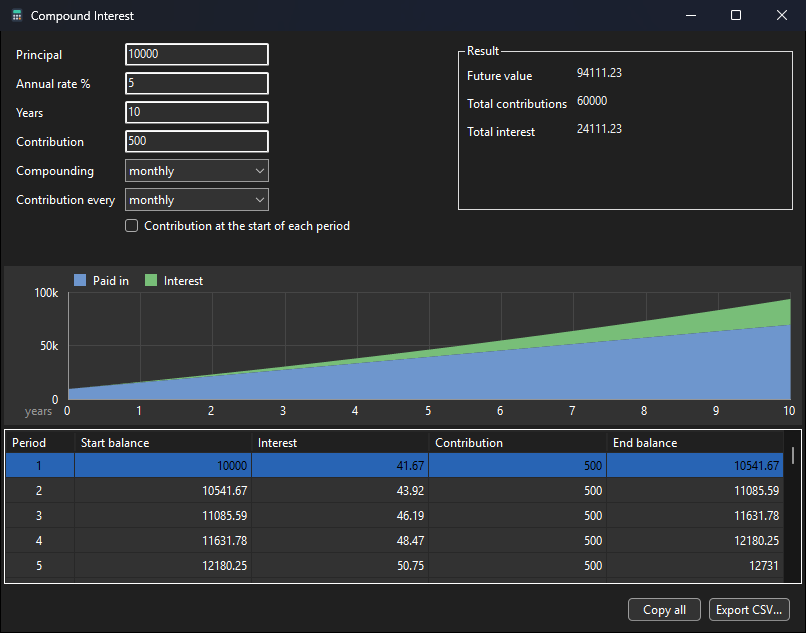
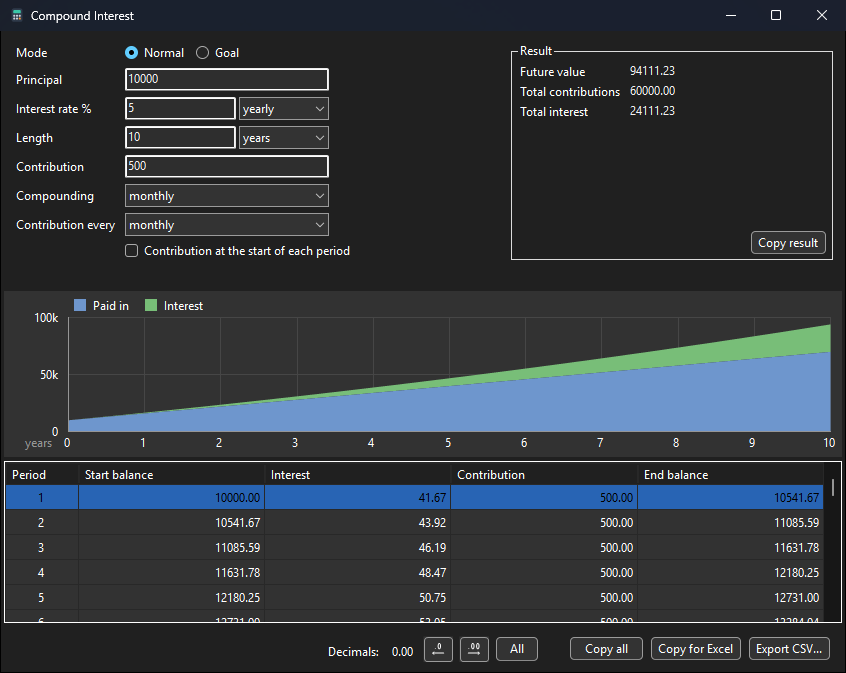
Help: Compound units, Goal, decimals, Copy result, Copy for Excel

diff --git a/help/09-finance.md b/help/09-finance.md
@@ -35,21 +35,69 @@ without formulas.
 
 ![The Compound Interest window](img/compound.light.png)
 
-- Fill in Principal, Interest rate %, Length and, if you add money
-  regularly, Contribution, Contribution every, and whether it comes at
-  the start of each period.
-- Compounding: yearly, quarterly, monthly, daily or continuous.
+- **Normal** works out what the money grows to. Fill in Principal,
+  Interest rate %, Length and, if you add money regularly,
+  Contribution, Contribution every, and whether it comes at the start
+  of each period. Each box takes any expression, such as `120000/12`;
+  one SoftCalc cannot read says why beside it.
+- Compounding and Contribution every: yearly, quarterly, monthly,
+  weekly or daily (compounding also continuous).
 - The rate is per year, month, week or day, and the length is in years,
   months, weeks or days (the graph's x axis follows it). A year is 365
-  days, a month a twelfth of it. Compounded less often than the rate's
-  unit, the rate compounds: 0.1% a day, yearly, is 1.001^365 - 1 a year,
-  not 36.5%. A part period is cut: 100 days, monthly, is 3 months.
-- The result updates as you type: future value, total contributions,
-  total interest, a growth graph and a table by period.
-- Copy all and Export CSV... take the table (the name carries the date
-  and time, such as `SoftCalc-compound-2026-11-20-1530.csv`); Ctrl+C
-  copies the selected rows.
+  days, a month a twelfth of it, a week 7 days. Compounded less often
+  than the rate's unit, the rate compounds: 0.1% a day, yearly, is
+  1.001^365 - 1 a year, not 36.5%. A part period is cut: 100 days,
+  monthly, is 3 months.
+- The result updates as you type: the totals, a growth graph and a
+  table by period. Drag the line between the graph and the table to
+  share the height.
+- **Decimals** sets the places of the table, the totals and a worked-out
+  value, for this window only: fewer, more (from All both start at 2),
+  or All. It shows as a sample, `0.00`, and as a number past 5.
+- **Copy result** copies the Result box's lines; **Copy all** and
+  **Export CSV...** the table (the name carries the date and time, such
+  as `SoftCalc-compound-2026-11-20-1530.csv`); Ctrl+C the selected rows.
+- **Copy for Excel** copies it all as a sheet: paste it at A1 of an
+  empty sheet (Excel, OnlyOffice, Google Sheets; LibreOffice asks, tick
+  Evaluate formulas). The inputs, the totals and every row are
+  formulas, so changing an input there works it out again. The rows
+  stay as many as here, and the cells keep the General format. A
+  computer set to a decimal comma reads the formulas wrong.
+- A long table fills in the background, so the window opens at once.
 - The window remembers what you typed last time.
+
+### Goal
+
+**Goal** takes four of Target, Principal, Interest rate, Length and
+Contribution and works out the fifth: the one set longest ago. Typing
+in a field, or changing its unit, sets it; typing in the worked-out one
+sets it too, and the next oldest is worked out instead. The order is
+kept for next time.
+
+```
+Target 10000000, Interest rate 0.5 % monthly, Length 20 years,
+Contribution 15000 a month: Principal is worked out
+then Principal 50000: Target is worked out (set longest ago)
+then Target 10000000: Length is worked out
+```
+
+- The worked-out field is in bold with `= result` beside it; the Result
+  box lists it first, then the others from the one set last to the one
+  set longest ago, then the totals.
+- The rate's unit is the compounding: 0.5 % monthly compounds each
+  month, so there is no Compounding field.
+- A worked-out length may end in a part period: 1000 at 10% a year to
+  2000 takes 7.27 years, shown also as `7 y 3 m 8 d`, and the table's
+  last row is `8 (0.2725)`, interest for that share of a year. A length
+  you give may end in a part period too.
+- A worked-out value shows in the window's places but keeps every
+  digit, so setting another field later does not round it.
+- Some goals cannot be met, such as a length with no interest and no
+  contribution, or a rate for a target below zero; the field says why.
+- In Copy for Excel a worked-out Target is a formula; another
+  worked-out field is SoftCalc's number, and **End balance - target**
+  shows how far a changed sheet is from the target (Excel's Goal Seek
+  can find it again).
 <!-- /desktop -->
 
 <!-- web -->
@@ -57,25 +105,44 @@ without formulas.
 
 ⋮ > Compound works out savings without formulas.
 
-- Fill in Principal, Interest rate %, Length and, if you add money
-  regularly, Contribution, Contribution every, and whether it comes at
-  the start of each period. Each box takes any expression, such as
-  `120000/12`; one SoftCalc cannot read says why under it.
-- Compounding: yearly, quarterly, monthly, daily or continuous.
+- **Normal** works out what the money grows to. Fill in Principal,
+  Interest rate %, Length and, if you add money regularly,
+  Contribution, Contribution every, and whether it comes at the start
+  of each period. Each box takes any expression, such as `120000/12`;
+  one SoftCalc cannot read says why under it.
+- Compounding and Contribution every: yearly, quarterly, monthly,
+  weekly or daily (compounding also continuous).
 - The rate is per year, month, week or day, and the length is in years,
   months, weeks or days (the graph's x axis follows it). A year is 365
-  days, a month a twelfth of it. Compounded less often than the rate's
-  unit, the rate compounds: 0.1% a day, yearly, is 1.001^365 - 1 a year,
-  not 36.5%. A part period is cut: 100 days, monthly, is 3 months.
-- The result updates as you type: future value, total contributions
-  and total interest. Tap one to put it in Input.
+  days, a month a twelfth of it, a week 7 days. Compounded less often
+  than the rate's unit, the rate compounds: 0.1% a day, yearly, is
+  1.001^365 - 1 a year, not 36.5%. A part period is cut: 100 days,
+  monthly, is 3 months.
+- The result updates as you type: the totals, then a chart or a table.
+  Tap a total to put it in Input; **Copy result** copies them all.
 - **Chart** shows the money paid in below and the interest above, so
   the top edge is the balance; drag a finger along it to read a period.
-  **Table** lists every period.
+  **Table** lists every period, and sets its places for this page:
+  fewer, more (from All both start at 2), or All, shown as a sample,
+  `0.00`. The places go for the totals too.
 - **CSV** saves the table, as the desktop's Export CSV; **PNG** saves
   the chart with a line saying what it is; **Copy** copies that line.
   Files are named with the date and time, such as
   `SoftCalc-compound-2026-11-20-1530.csv`: in the app in
   Download/SoftCalc, in a browser in its downloads.
+- **Excel** copies it all as a sheet: paste it at A1 of an empty sheet
+  (Excel, OnlyOffice, Google Sheets; LibreOffice asks, tick Evaluate
+  formulas). The inputs, the totals and every row are formulas, so
+  changing an input there works it out again. The rows stay as many as
+  here, and the cells keep the General format.
+- **Goal** takes four of Target, Principal, Interest rate, Length and
+  Contribution and works out the fifth, the one set longest ago; typing
+  in a field or changing its unit sets it. The worked-out field shows
+  `= result`, and comes first in the totals, then the others from the
+  one set last. The rate's unit is the compounding. A worked-out length
+  may end in a part period (`7 y 3 m 8 d`, the last row `8 (0.2725)`).
+  In Excel a worked-out Target is a formula; another worked-out field is
+  a number, with an **End balance - target** check.
+- A long table fills in the background.
 - Compound remembers what you typed last time.
 <!-- /web -->

diff --git a/design/TODO.md b/design/TODO.md
@@ -973,9 +973,9 @@ a separate window shows the running numbers, the laps and buttons.
   ago (typing in a field or changing its unit sets it; the order is kept
   in the settings); the rate's unit is the compounding there; a worked-out
   length may end in a part period (`7.27` years, `7 y 3 m 8 d`, the last
-  row `8 (0.2725)`), a given one too. Help waits until the owner is done
-  testing (owner 2026-11-29).
-- [ ] Plan (owner 2026-11-29, not started): **Copy for Excel**: tab text
+  row `8 (0.2725)`), a given one too. Help 09 written 2026-11-29, after the
+  owner's testing.
+- [x] Built 2026-11-29 (owner checked 18k rows in OnlyOffice): **Copy for Excel**: tab text
       pasted at A1 gives the inputs (in the Result box's order), helper
       cells and the whole table as formulas, so Excel recalculates when
       an input changes. A worked-out field other than Target goes in as
@@ -983,7 +983,7 @@ a separate window shows the running numbers, the laps and buttons.
       fixed; no number formats (General); LibreOffice needs "Evaluate
       formulas"; a locale with a decimal comma breaks it. Engine op
       `schedule_sheet` from the last schedule; a button on both apps.
-- [ ] Proposed (owner 2026-11-29, waiting): load the rest of the table in
+- [x] Built 2026-11-29: load the rest of the table in
       the background, 200 rows at a time, after the first answer.
 - [x] Desktop: dragging the splitter between the chart and the table
       redraws the chart as it moves (owner 2026-11-28), not only on
